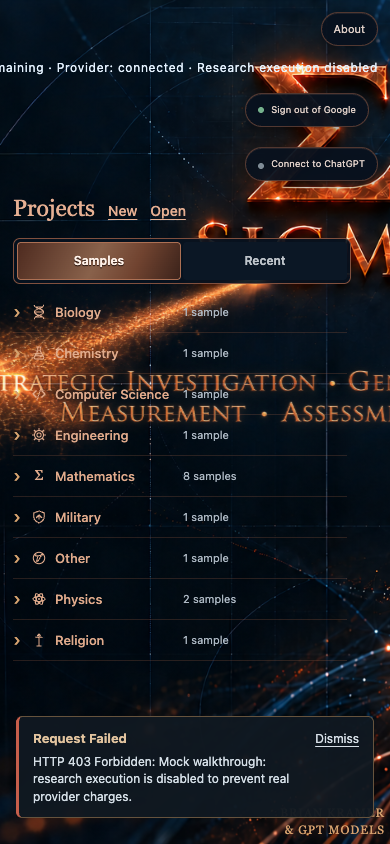
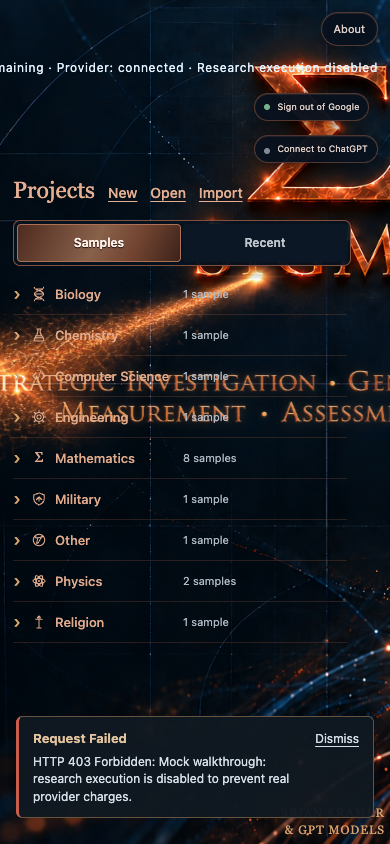
Verify resume guards and align identity pills

Changed region(s): [[0.0308, 0.0924, 0.9846, 0.7701]]

diff --git a/frontend/src/recents.css b/frontend/src/recents.css
@@ -153,7 +153,7 @@
 .home-page .home-content { display: flex; flex-direction: column; height: 100%; min-height: 0; padding-bottom: 16px; overflow: hidden; }
 .home-page .home-topline { flex: 0 0 auto; height: auto; min-height: 52px; }
 .home-page .home-auth-pills, .home-page .home-header-actions { display: grid; flex: 0 0 auto; justify-items: end; gap: 16px; }
-:root { --identity-pill-gap: 8px; --identity-pill-pad-block: 7px; --identity-pill-pad-inline: 12px; }
+:root { --identity-pill-gap: 14px; --identity-pill-pad-block: 7px; --identity-pill-pad-inline: 12px; }
 .identity-pill-stack { display: grid; justify-items: start; row-gap: var(--identity-pill-gap); }
 .identity-pill-stack > .api-connection { position: relative; top: auto; right: auto; margin: 0; }
 .project-identity-pill-stack { max-width: min(240px, calc(100vw - 32px)); }

diff --git a/tests/research_sessions.py b/tests/research_sessions.py
@@ -2226,14 +2226,17 @@ async def test_pause_counts_interrupted_call(path: Path):
     assert stopped["status"] == "stopped" and stopped["calls_used"] == 1
     assert stopped["steps"][-1]["status"] == "interrupted"
     with patch.object(research_sessions, "auth_context", new=AsyncMock(return_value=credential)):
+        rejection_message = ""
         try:
             await research_sessions.control_session(str(path), stopped_start["id"], "resume")
         except ProjectError as exc:
-            assert "unavailable" in str(exc).lower()
+            rejection_message = str(exc)
+            assert "authentication (401)" in rejection_message.lower()
         else:
-            raise AssertionError("Unavailable configuration must visibly reject resume")
+            raise AssertionError("Rejected provider credentials must visibly reject resume")
     rejected = research_sessions.get_session(str(path), stopped_start["id"])
-    assert rejected["status"] == "stopped"  # unavailable configuration leaves it stopped
+    assert rejected["status"] == "stopped"  # rejected credentials leave it stopped
+    assert rejected["message"] == rejection_message
 
 
 async def test_malformed_output_and_restart(path: Path):

diff --git a/src/sigma/research_sessions.py b/src/sigma/research_sessions.py
@@ -2749,7 +2749,7 @@ def _project_manager_lock(path: str):
 
 
 def _save(path: str, record: dict[str, Any]) -> None:
-    if project_path(path).suffix == ".json":
+    if Path(path).suffix == ".json":
         from sigma.project_bundle import transform_members
 
         try:
